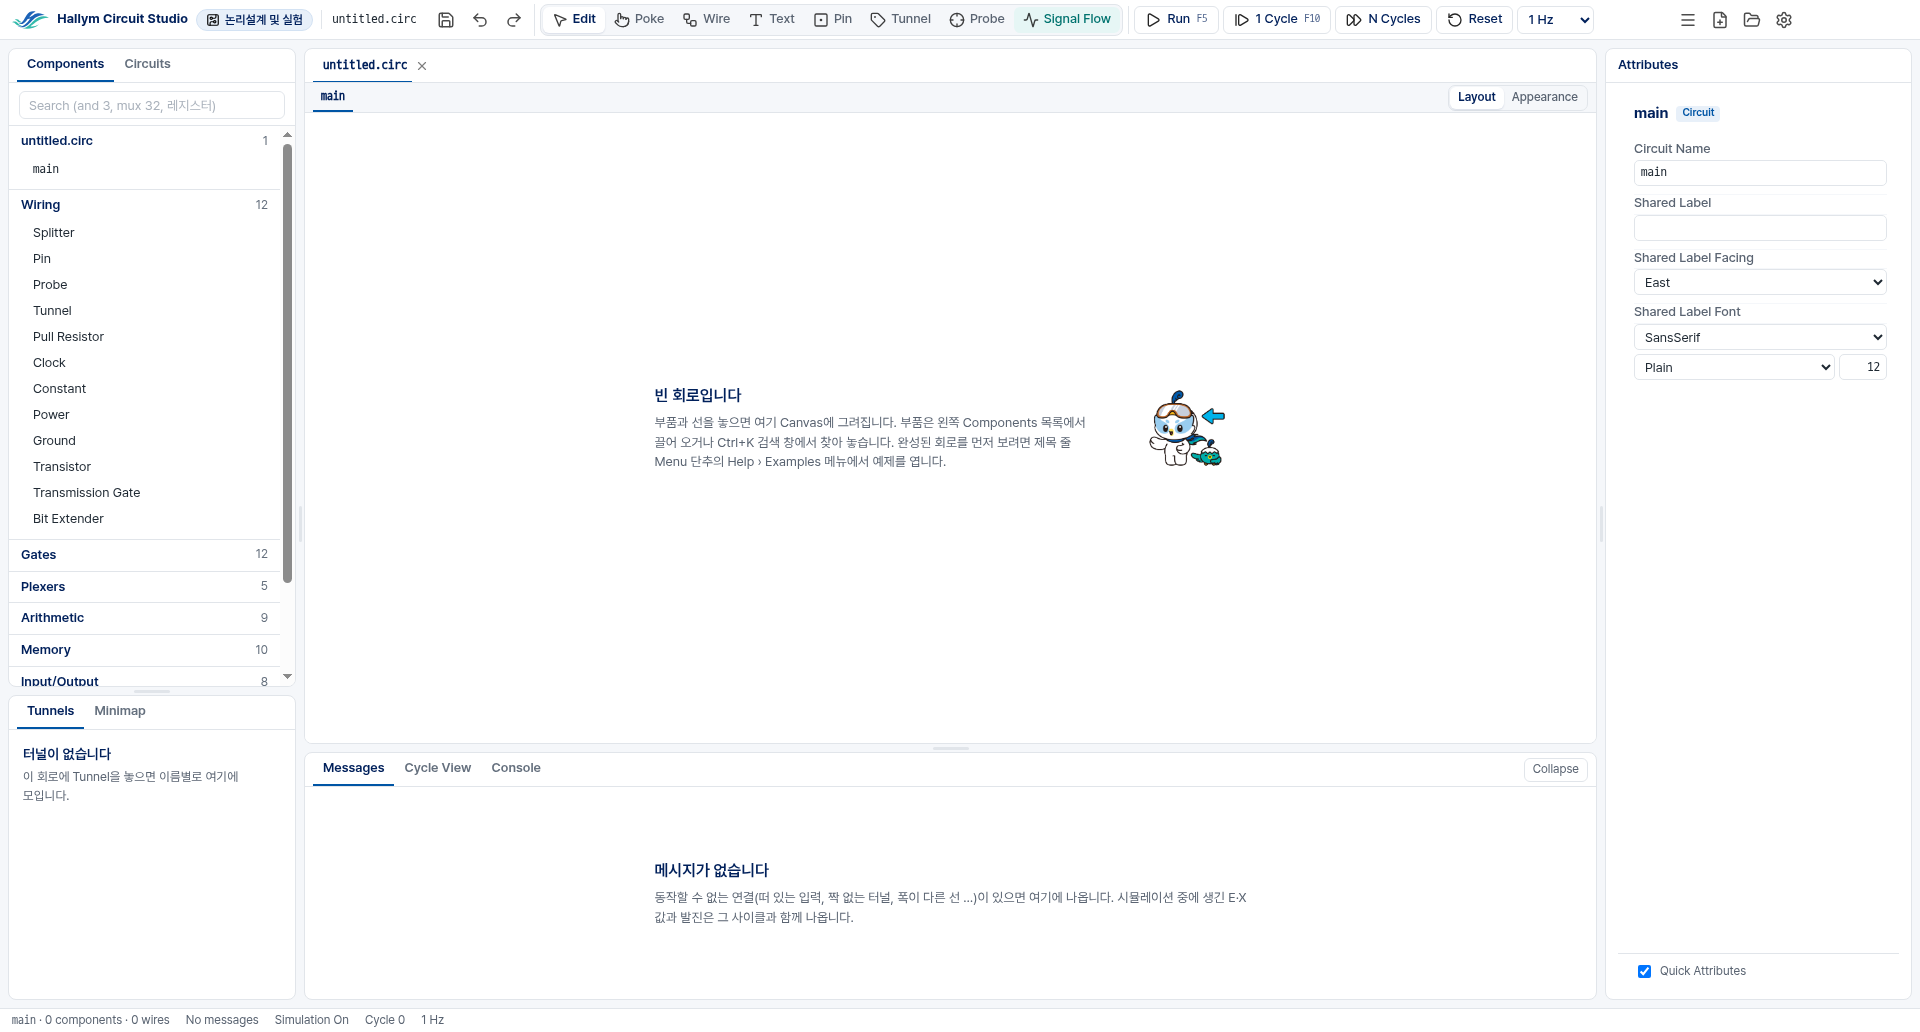
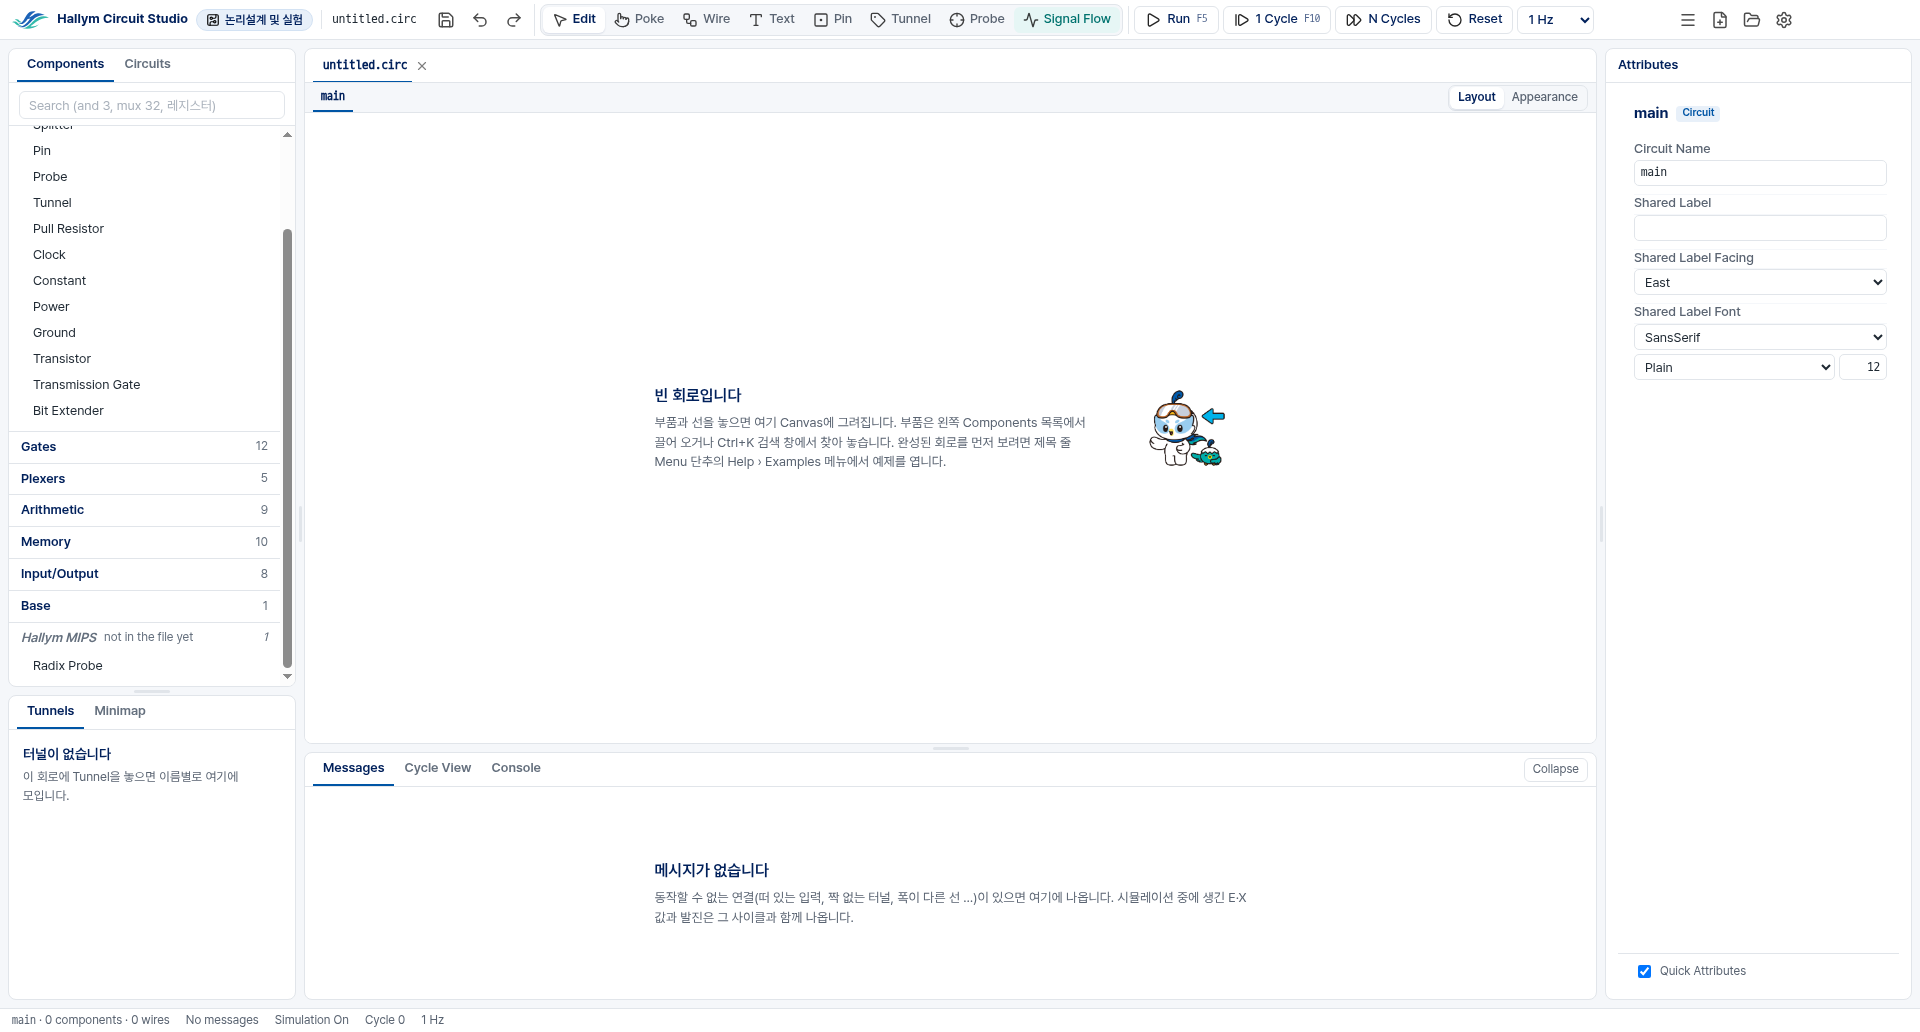
Show the Hallym MIPS group in course-logic.png; its README row as the picture is

diff --git a/electron/tools/capture-screens.ts b/electron/tools/capture-screens.ts
@@ -858,7 +858,8 @@ function sideBySide(name: string, left: Buffer, right: Buffer): void {
   await page.getByRole('button', { name: /바로 시작/ }).click();
   await page.getByRole('button', { name: /새 회로/ }).click();
   await page.locator('.canvas h3').waitFor();
-  await page.locator('.upper .libgroup', { hasText: 'Hallym MIPS' }).locator('.list li', { hasText: 'Radix Probe' }).waitFor();
+  // the Hallym MIPS group in view (it is under the built-in libraries)
+  await page.locator('.upper .libgroup', { hasText: 'Hallym MIPS' }).locator('.list li', { hasText: 'Radix Probe' }).scrollIntoViewIfNeeded();
   await shot(r, 'course-logic');
   await openFile(r, sample(r.dir, DATAPATH));
   await drawn(r);

diff --git a/electron/docs/screens/README.md b/electron/docs/screens/README.md
@@ -27,7 +27,7 @@ Every round, **all of them are retaken and overwritten** under the same names; n
 | `circuits-panel.png` | The Circuits tab (N-11, D-153): Add Circuit · Import · Libraries ▾ over the file's circuits (the house = main), `regfile`'s right click (its row marked while the menu is up) (Edit Circuit Layout / Appearance, Rename…, Set As Main Circuit, Port Order…, Auto Appearance, Move Up/Down, Remove Circuit); under the list the Simulation Tree (main and its instances as `circuit(x,y)`); the Canvas's circuit tab row with Layout \| Appearance on its right | `demo-datapath`, Circuits tab, right click on `regfile` |
 | `port-order.png` | Port Order… for `alu`: its ports a column a side (West, East) with a drag grip, the name, in/out and width, ▲▼ (the end ones off); `A` moved down one; Cancel / Apply | Right click on `alu` › Port Order…, ▼ on the first West port |
 | `appearance-editor.png` | `alu`'s appearance (a tab of its own, "· Appearance"; the list marks it): the drawing tools (Select, Text, Line, Curve, Polyline, Rectangle, Rounded Rectangle, Oval, Polygon), the facts (Custom appearance · shapes · ports · zoom) and Revert To Default Appearance; the box chosen with its four handles, the ports in blue, the anchor; Attributes: the box's Paint Type, Stroke Width, Stroke Color | Right click on `alu` › Edit Circuit Appearance, a click on the box's edge |
-| `course-logic.png` | A new circuit in 논리설계 및 실험 (A-08, D-168): the title bar's course chip (circuit-board icon, 논리설계 및 실험) where the program's name was; no Load Program… on the toolbar; Components: Hallym MIPS (not in the file yet) with Radix Probe only | 논리설계 및 실험 → 바로 시작 → 새 회로 |
+| `course-logic.png` | A new circuit in 논리설계 및 실험 (A-08, D-168): the title bar's course chip (circuit-board icon, 논리설계 및 실험) after the program's name (no Load Program… here, so the name has room; in 컴퓨터구조 the name gives way to the chip: `new-circuit.png`); no Load Program… on the toolbar; Components scrolled to Hallym MIPS (not in the file yet): Radix Probe only | 논리설계 및 실험 → 바로 시작 → 새 회로 |
 | `course-mips-in-logic.png` | `demo-datapath.circ` (Instruction Memory, Data Memory, Console) opened in 논리설계 및 실험: the parts drawn as always; the blue strip "이 파일은 컴퓨터구조 부품(Hallym MIPS)을 씁니다" with 컴퓨터구조로 바꾸기; 1 Cycle twice: the Cycle View's table alone, the whole width (no Registers / Memory / Instruction); the status bar: Cycle 2, no PC | the same window: Ctrl+O, 1 Cycle twice, Cycle View |
 | `course-chip.png` | The chip pressed: the two courses, 논리설계 및 실험 checked | the same window: the chip |
 | `file-tabs.png` | Three file tabs, two named `lab.circ` told apart by their folders (`— hw1`, `— hw2`); a tab's right click: Detach Tab, View Side by Side, Close; Components: Open Files groups for the other files | `hw1/lab.circ`, `hw2/lab.circ`, `demo-datapath.circ`; right click on the second tab |
